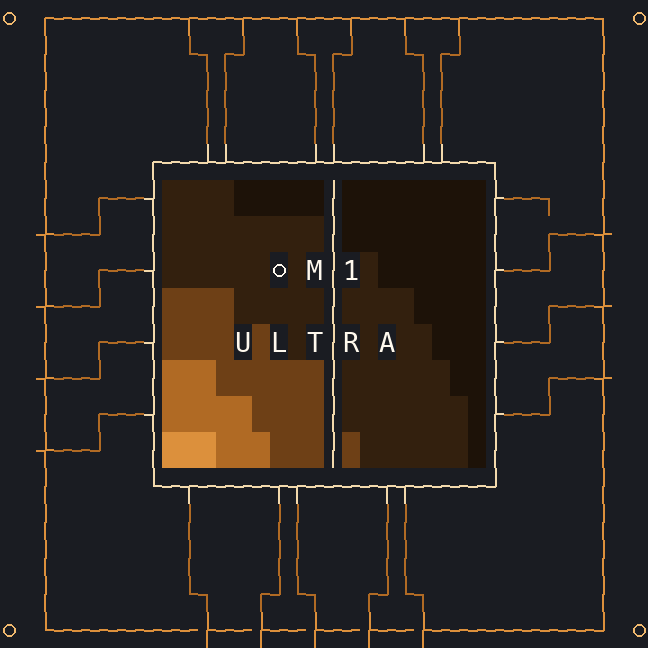
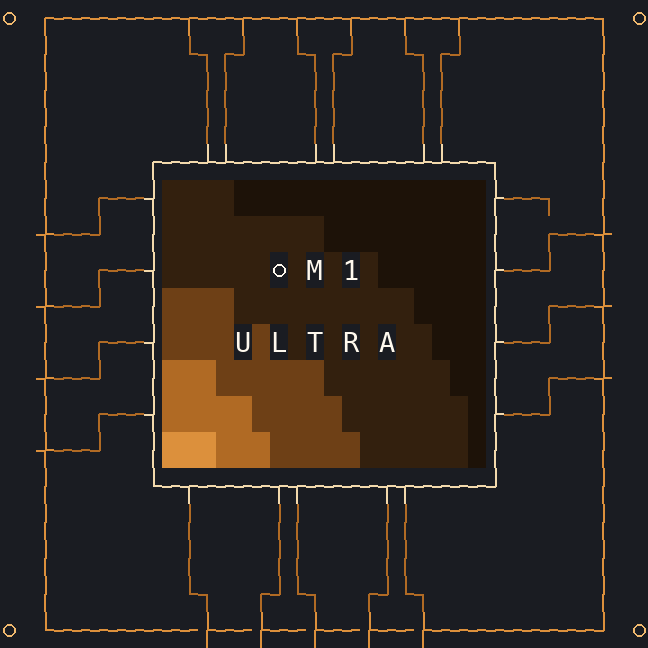
Remove the UltraFusion dual-die seam
Apple Ultra chips keep the large 20x10/24x12 die, but the centre divider
read as a rendering artefact rather than a design cue.

Changed region(s): [[0.4938, 0.2778, 0.5247, 0.7407]]

diff --git a/tools/gen_logo.py b/tools/gen_logo.py
@@ -198,7 +198,7 @@ class Board:
 
 def build_pcb(COLS=32, ROWS=16, DW=16, DH=8, ink=8, rim=6, trace=3, pad=4,
               via=5, power=2.0, reach=1.45, lines=("\u25cf M 4", "P R O"),
-              field="glow", dual=False):
+              field="glow"):
     ox, oy = (COLS-DW)//2, (ROWS-DH)//2
     L, R, T, B = ox, ox+DW, oy, oy+DH          # boundary cells: cols L..R-1, rows T..B-1
     b = Board(COLS, ROWS)
@@ -282,12 +282,6 @@ def build_pcb(COLS=32, ROWS=16, DW=16, DH=8, ink=8, rim=6, trace=3, pad=4,
         b.set(L, y, N|S, rim); b.set(R-1, y, N|S, rim)
     b.set(L, T, S|E, rim); b.set(R-1, T, S|W, rim)
     b.set(L, B-1, N|E, rim); b.set(R-1, B-1, N|W, rim)
-
-    # ---- UltraFusion seam: two fused dies (Apple Ultra) ----
-    if dual:
-        mx = L + DW // 2
-        for y in range(T+1, B-1):
-            b.put(mx, y, 0, rim, "\u2502")
 
     # ---- wordmark: literal characters, centred in the die ----
     texts, block = _lockup_rows(lines)
@@ -434,7 +428,7 @@ def generate(chip_id, size, power, reach, line1=None, line2=None, mono=False,
     out = out or os.path.join(here, "chips", chip_id, "%s%s.txt" % (chip_id, TAGS[size]))
     if size in pcbs:
         board = build_pcb(**pcbs[size], power=power, reach=reach, lines=lines,
-                          field=field, dual=spec.get("dual", False))[0]
+                          field=field)[0]
         text = emit_board(board)
         grid = board.render()
     else:
@@ -523,8 +517,8 @@ def main():
                                              chip, info["model"] or spec["label"]),
               file=sys.stderr)
         if not a.dest:                       # pipe mode: full-size logo to stdout
-            board = build_pcb(**pcb_set(spec)["pcb"], lines=(l1, l2), field=field,
-                              dual=spec.get("dual", False))[0]
+            board = build_pcb(**pcb_set(spec)["pcb"], lines=(l1, l2),
+                              field=field)[0]
             sys.stdout.write(emit_board(board))
             return
         os.makedirs(a.dest, exist_ok=True)

diff --git a/tools/chips.py b/tools/chips.py
@@ -175,12 +175,10 @@ for n, pal in ((9, "amd-red"), (7, "amd-orange"),
     )
 
 
-# large packages get a bigger die; Apple Ultra is two fused dies -> seam
-for _cid in ("epyc", "threadripper", "xeon"):
+# large packages get a bigger die
+for _cid in ("epyc", "threadripper", "xeon",
+             "m1ultra", "m2ultra", "m3ultra", "m5ultra"):
     CHIPS[_cid]["form"] = "big"
-for _cid in ("m1ultra", "m2ultra", "m3ultra", "m5ultra"):
-    CHIPS[_cid]["form"] = "big"
-    CHIPS[_cid]["dual"] = True
 
 
 def normalize(s):

diff --git a/README.md b/README.md
@@ -68,8 +68,6 @@ Ryzen orange-to-red, Apple's graphite/space-black keynote renders).
 
 Large packages get a physically bigger die (20x10 full / 24x12 small instead
 of 16x8 / 20x10): `epyc`, `threadripper`, `xeon` and every Apple Ultra.
-Apple Ultra additionally shows the UltraFusion seam between the two fused
-dies (`dual` flag in the registry).
 
 ## Install
 
@@ -241,8 +239,7 @@ title = `$8`, output = `$7`, separator = `$4`).
 
 1. Add an entry to `CHIPS` in `tools/chips.py` (wordmark lines, palette name,
    CPU-detection regexes). Reuse a palette from `PALETTES` or add a new
-   9-colour one. Optional flags: `form: "big"` (large package) and
-   `dual: True` (dual-die seam).
+   9-colour one. Optional flag: `form: "big"` (large package).
 2. Map its `family` to a die field in `FAMILY_FIELDS` (`glow` / `band` /
    `ring`), or add a new field function in `tools/gen_logo.py`.
 3. Extend `identify()`/`wordmark()` if the model number needs new parsing,
